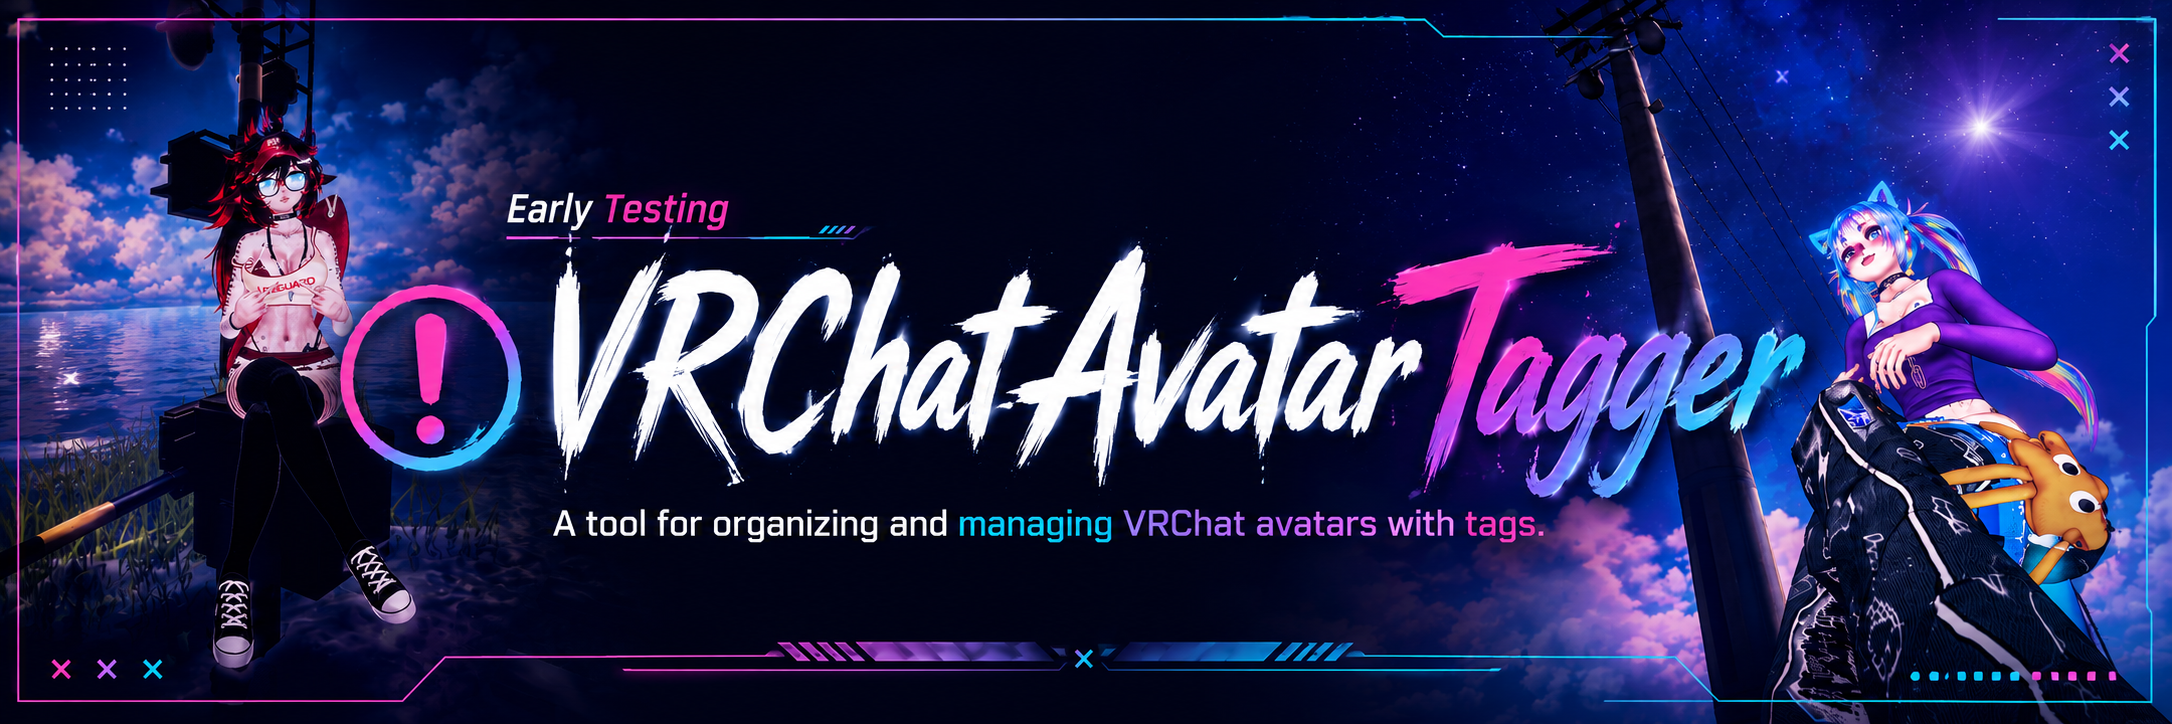
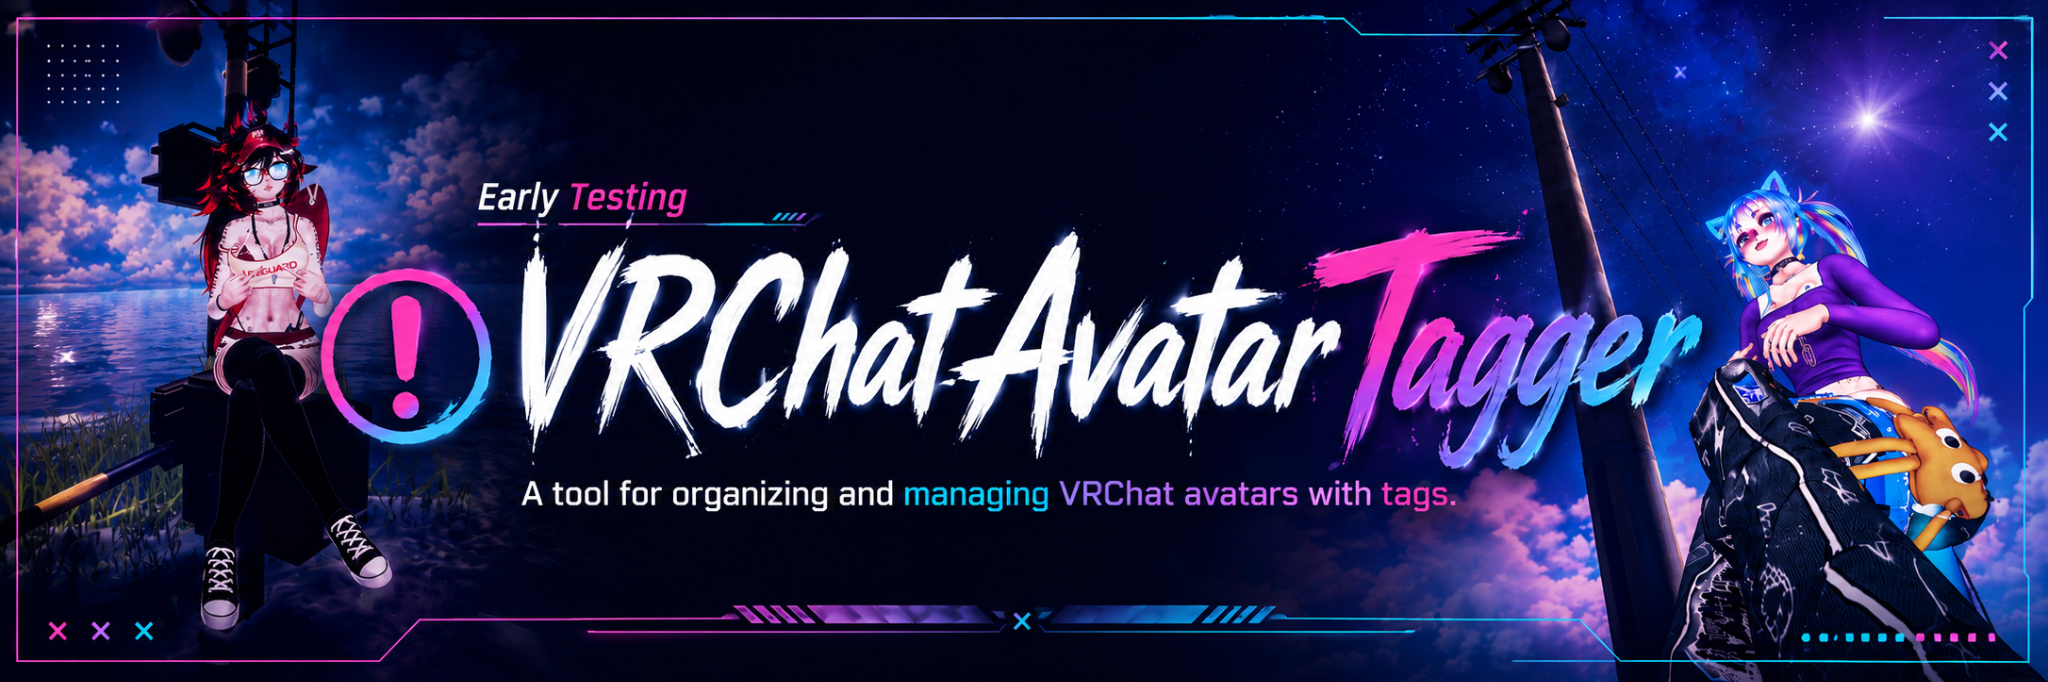
Replace repository with fixed v1.3

diff --git a/tag_avatars_gui.py b/tag_avatars_gui.py
@@ -14,12 +14,14 @@ or double-click run_gui.bat on Windows.
 import atexit
 import http.cookiejar
 import json
+import math
 import os
 import queue
 import threading
 import tkinter as tk
 from tkinter import ttk, messagebox, simpledialog
 import time
+import traceback
 
 import vrchatapi
 from vrchatapi.api import authentication_api, avatars_api
@@ -432,15 +434,22 @@ class App(tk.Tk):
         preset = [v for v, var in self.tag_vars.items() if var.get()]
         return preset + [t for t in self.extra_tags if t not in preset]
 
-    def _add_banner_if_available(self, parent, target_width=560):
-        """Show banner.png at the top of the given frame, scaled to target_width.
+    def _add_banner_if_available(self, parent, target_width=560, target_height=175):
+        """Show banner.png, constrained so it cannot cover the login form.
         Uses plain tkinter (no Pillow dependency) -- silently skipped if the
         file is missing or the image fails to load, so this never crashes the app."""
         if not os.path.exists(BANNER_FILE):
             return
         try:
             img = tk.PhotoImage(file=BANNER_FILE)
-            factor = max(1, round(img.width() / target_width))
+            # PhotoImage only supports integer subsampling. Account for BOTH
+            # dimensions: a square or portrait image must not become 500px tall
+            # and push the username/password controls outside the window.
+            factor = max(
+                1,
+                math.ceil(img.width() / target_width),
+                math.ceil(img.height() / target_height),
+            )
             if factor > 1:
                 img = img.subsample(factor, factor)
             self.banner_image = img  # keep a reference so it isn't garbage-collected
@@ -481,7 +490,7 @@ class App(tk.Tk):
         vrchatapi.Configuration.set_default(configuration)
 
         api_client = vrchatapi.ApiClient(configuration)
-        api_client.user_agent = "vrchat-avatar-tagger-gui/1.0 (github.com/USERNAME/vrchat-avatar-tagger)"
+        api_client.user_agent = "vrchat-avatar-tagger-gui/1.1 (github.com/y2kbeatzz-dot/vrchat-avatar-tagger)"
 
         cookie_jar = http.cookiejar.MozillaCookieJar(COOKIE_FILE)
         if os.path.exists(COOKIE_FILE):
@@ -529,18 +538,26 @@ class App(tk.Tk):
         self._log(f"Fetching your avatars...")
 
         def worker():
-            avatars = []
-            offset = 0
-            page_size = 100
-            while True:
-                page = self.avatar_api.search_avatars(user="me", n=page_size, offset=offset, release_status="all")
-                if not page:
-                    break
-                avatars.extend(page)
-                offset += page_size
-                time.sleep(REQUEST_DELAY)
-            self.all_avatars = avatars
-            self.log_queue.put(("avatars_loaded", None))
+            try:
+                avatars = []
+                offset = 0
+                page_size = 100
+                while True:
+                    page = self.avatar_api.search_avatars(
+                        user="me", n=page_size, offset=offset, release_status="all"
+                    )
+                    if not page:
+                        break
+                    avatars.extend(page)
+                    if len(page) < page_size:
+                        break
+                    offset += page_size
+                    time.sleep(REQUEST_DELAY)
+                self.all_avatars = avatars
+                self.log_queue.put(("avatars_loaded", None))
+            except Exception as e:
+                self.log_queue.put(("load_failed", f"{type(e).__name__}: {e}"))
+                self._write_error_log("Avatar loading failed", e)
 
         threading.Thread(target=worker, daemon=True).start()
 
@@ -741,6 +758,16 @@ class App(tk.Tk):
     def _log(self, message):
         self.log_queue.put(("log", message))
 
+    def _write_error_log(self, heading, error):
+        """Keep a useful local traceback instead of letting worker failures vanish."""
+        try:
+            path = os.path.join(SCRIPT_DIR, "tagger_error.log")
+            with open(path, "a", encoding="utf-8") as f:
+                f.write(f"\n[{time.strftime('%Y-%m-%d %H:%M:%S')}] {heading}\n")
+                traceback.print_exception(type(error), error, error.__traceback__, file=f)
+        except Exception:
+            pass
+
     def _poll_log_queue(self):
         try:
             while True:
@@ -753,6 +780,13 @@ class App(tk.Tk):
                 elif kind == "avatars_loaded":
                     self._refresh_avatar_list()
                     self._log(f"Found {len(self.all_avatars)} avatars.")
+                elif kind == "load_failed":
+                    self._log("Could not load avatars: " + payload)
+                    self._log("Details were saved to tagger_error.log.")
+                    messagebox.showerror(
+                        "Could not load avatars",
+                        payload + "\n\nSee tagger_error.log next to the app for details.",
+                    )
                 elif kind == "progress":
                     self.progress.config(value=payload)
                     self._refresh_avatar_list()

diff --git a/tag_avatars.py b/tag_avatars.py
@@ -176,7 +176,7 @@ def login():
     vrchatapi.Configuration.set_default(configuration)
 
     api_client = vrchatapi.ApiClient(configuration)
-    api_client.user_agent = "vrchat-avatar-tagger/1.0 (github.com/USERNAME/vrchat-avatar-tagger)"
+    api_client.user_agent = "vrchat-avatar-tagger/1.1 (github.com/y2kbeatzz-dot/vrchat-avatar-tagger)"
 
     # Persist the login session (auth + 2FA cookies) to disk. VRChat only
     # allows a limited number of simultaneous username/password logins

diff --git a/README.md b/README.md
@@ -19,11 +19,14 @@ Useful if you have a large number of avatars and need to get them properly label
 
 If you'd rather not deal with the command line at all, use the desktop app version.
 
-**Windows:** double-click `run_gui.bat` (it installs the one required package automatically the first time).
+**Windows:** install [Python 3](https://www.python.org/downloads/windows/) and check
+**Add python.exe to PATH** during setup. Then extract the whole ZIP and double-click
+`run_gui.bat`. The launcher creates a private environment and installs the required
+package automatically. If startup fails, the launcher stays open and shows the error.
 
 **Mac/Linux:** run:
 ```bash
-pip install vrchatapi --break-system-packages
+pip install -r requirements.txt --break-system-packages
 python3 tag_avatars_gui.py
 ```
 
@@ -48,7 +51,7 @@ If you prefer the terminal or want to script/automate this, use `tag_avatars.py`
 ### Install
 
 ```bash
-pip install vrchatapi --break-system-packages
+pip install -r requirements.txt --break-system-packages
 ```
 
 (or `pip install -r requirements.txt`)
@@ -128,6 +131,9 @@ python3 tag_avatars.py --tags sex --limit 20
 
 - Your username/password are only used locally to log into VRChat's own servers, exactly like the website login. They're entered at runtime (never hardcoded) and nothing is sent anywhere besides VRChat's API.
 - After a successful login, the tool saves a session file (`vrchat_session.cookies`) next to the script so re-running it doesn't need a fresh login every time. **Don't share or commit this file** — it's as sensitive as being logged in. It's already excluded via `.gitignore`.
+- If the avatar list cannot load, the GUI displays the error and writes technical
+  details to `tagger_error.log`. Do not post that log publicly without checking it
+  for account-related information first.
 - VRChat limits how many login sessions and requests you can make in a short window. The script pauses briefly between requests; don't remove that.
 - This uses [`vrchatapi`](https://github.com/vrchatapi/vrchatapi-python), an unofficial but actively maintained community wrapper around VRChat's API. It isn't officially supported by VRChat.
 

diff --git a/GITHUB_RELEASE_POST.md b/GITHUB_RELEASE_POST.md
@@ -1,0 +1,34 @@
+# VRChat Avatar Tagger v1.2
+
+VRChat Avatar Tagger is a small desktop tool that lets avatar creators add or remove content-warning tags across their own avatars without editing every avatar individually on the VRChat website.
+
+## Features
+
+- Add or remove VRChat content-warning tags
+- Select all avatars or only specific ones
+- Search your avatar list
+- Preview changes with Dry Run before applying them
+- Edit one avatar directly by double-clicking it
+- Resume an interrupted bulk update
+- Supports email and authenticator 2FA
+- Light and dark modes
+
+## Fixes in v1.2
+
+- Fixed silent failures while loading avatars
+- Added a visible error message and `tagger_error.log`
+- Improved the Windows launcher so setup errors stay visible
+- Added a private Python environment to prevent package conflicts
+- Pinned the tested `vrchatapi` version
+- Added the missing `.gitignore` for session and progress files
+- Updated the API User-Agent project address
+- Prevented oversized or incorrect banner images from covering the login form
+
+## Windows setup
+
+1. Download and extract the ZIP.
+2. Install Python 3 from python.org and enable **Add python.exe to PATH**.
+3. Double-click `run_gui.bat`.
+4. Log in, choose avatars and tags, and use **Dry Run** first.
+
+This project uses the unofficial community `vrchatapi` package and is not affiliated with or endorsed by VRChat Inc. Your login is sent only to VRChat for authentication. Never upload or share `vrchat_session.cookies`.
